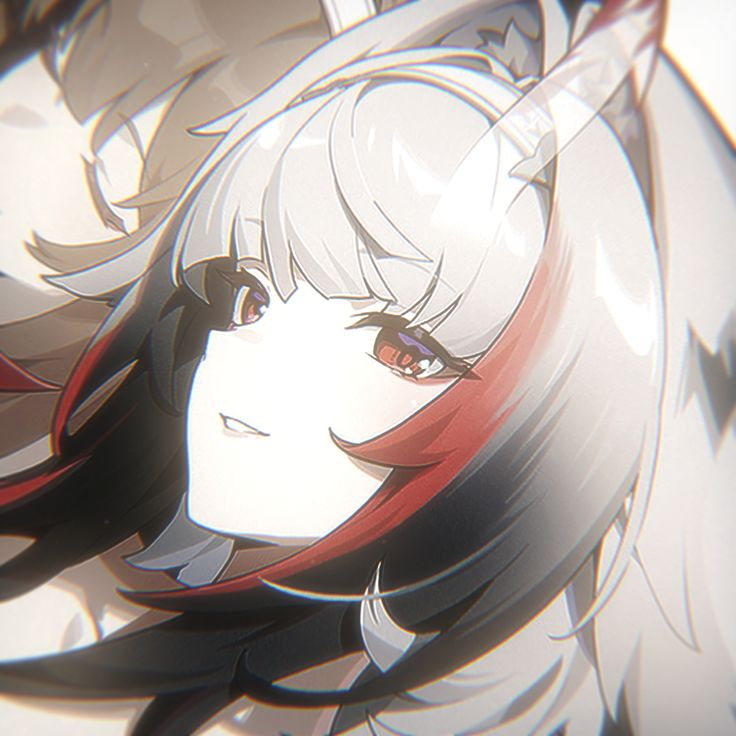
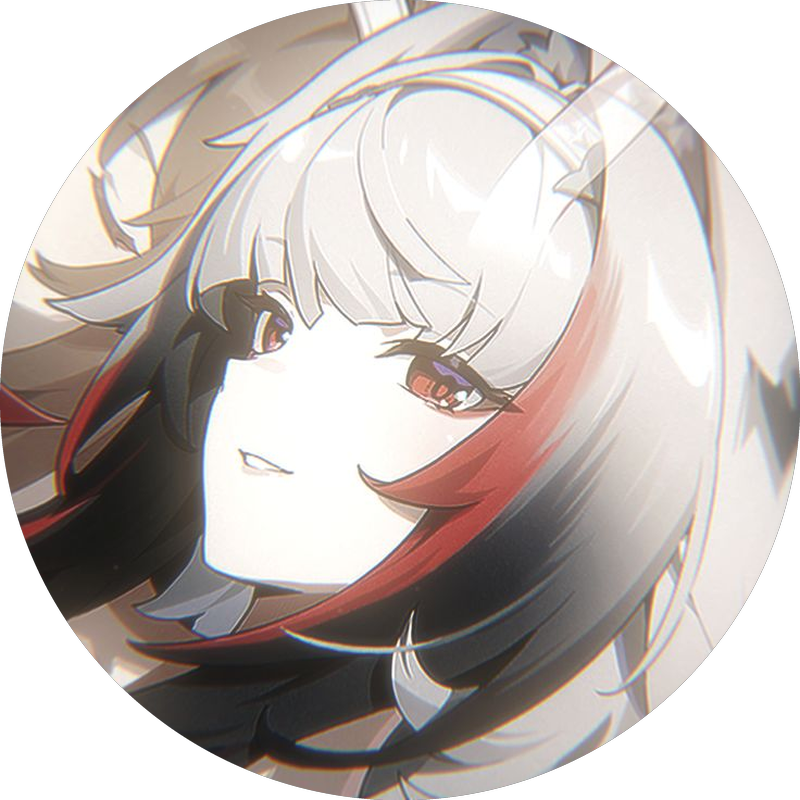
profile setup

diff --git a/README.md b/README.md
@@ -2,13 +2,13 @@
 <img src="./assets/matrix_rain.svg" width="700"/>
 </div>
 
-<br/><br/><br/>
+<br/><br/>
 
 <div align="center">
 
-<img src="./assets/photo.png" width="220" style="border-radius:50%;border:3px solid #ff0000;" alt="v1ewy"/>
+<img src="./assets/photo_frame.svg" width="260" alt="v1ewy"/>
 
-<br/>
+<br/><br/>
 
 [![Typing SVG](https://readme-typing-svg.demolab.com/?font=Fira+Code&weight=600&size=26&duration=3000&pause=900&color=FF0000&center=true&vCenter=true&width=650&lines=v1ewy;security+%2B+systems+%2B+networks;break+it+down+to+understand+it)](https://git.io/typing-svg)
 
@@ -34,7 +34,7 @@
 <summary>👀 secret.txt</summary>
 <br/>
 <div align="center">
-<img src="./assets/photo_alt.png" width="260" style="border-radius:50%;border:2px solid #ff0000;"/>
+<img src="./assets/photo_alt.png" width="650"/>
 </div>
 </details>
 
@@ -54,19 +54,14 @@
 
 | repo | description | stack |
 |---|---|---|
-| [Simly-DataBase](https://github.com/v1ewy/Simly-DataBase) | simple database project | `Python` |
-| [Cryptanalyzer](https://github.com/v1ewy/Cryptanalyzer) | cryptanalysis toolkit | `Python` |
+| [Simly-DataBase](https://github.com/v1ewy/Simly-DataBase) | file-based database engine — stores and persists data to disk | `C` |
+| [Cryptanalyzer](https://github.com/v1ewy/Cryptanalyzer) | decryption tool based on letter substitution | `Python` |
 
 <br/>
 
 ## `./telemetry`
 
 <div align="center">
-
-<img src="https://github-readme-stats.vercel.app/api?username=v1ewy&show_icons=true&hide_border=true&title_color=ff0000&icon_color=ff0000&text_color=ffffff&bg_color=0d0d0d&count_private=true" height="165"/>
-<img src="https://github-readme-stats.vercel.app/api/top-langs/?username=v1ewy&layout=compact&hide_border=true&title_color=ff0000&text_color=ffffff&bg_color=0d0d0d" height="165"/>
-
-<br/>
 
 <img src="https://streak-stats.demolab.com/?user=v1ewy&theme=dark&hide_border=true&background=0D0D0D&ring=FF0000&fire=FF0000&currStreakLabel=FF0000" />
 
